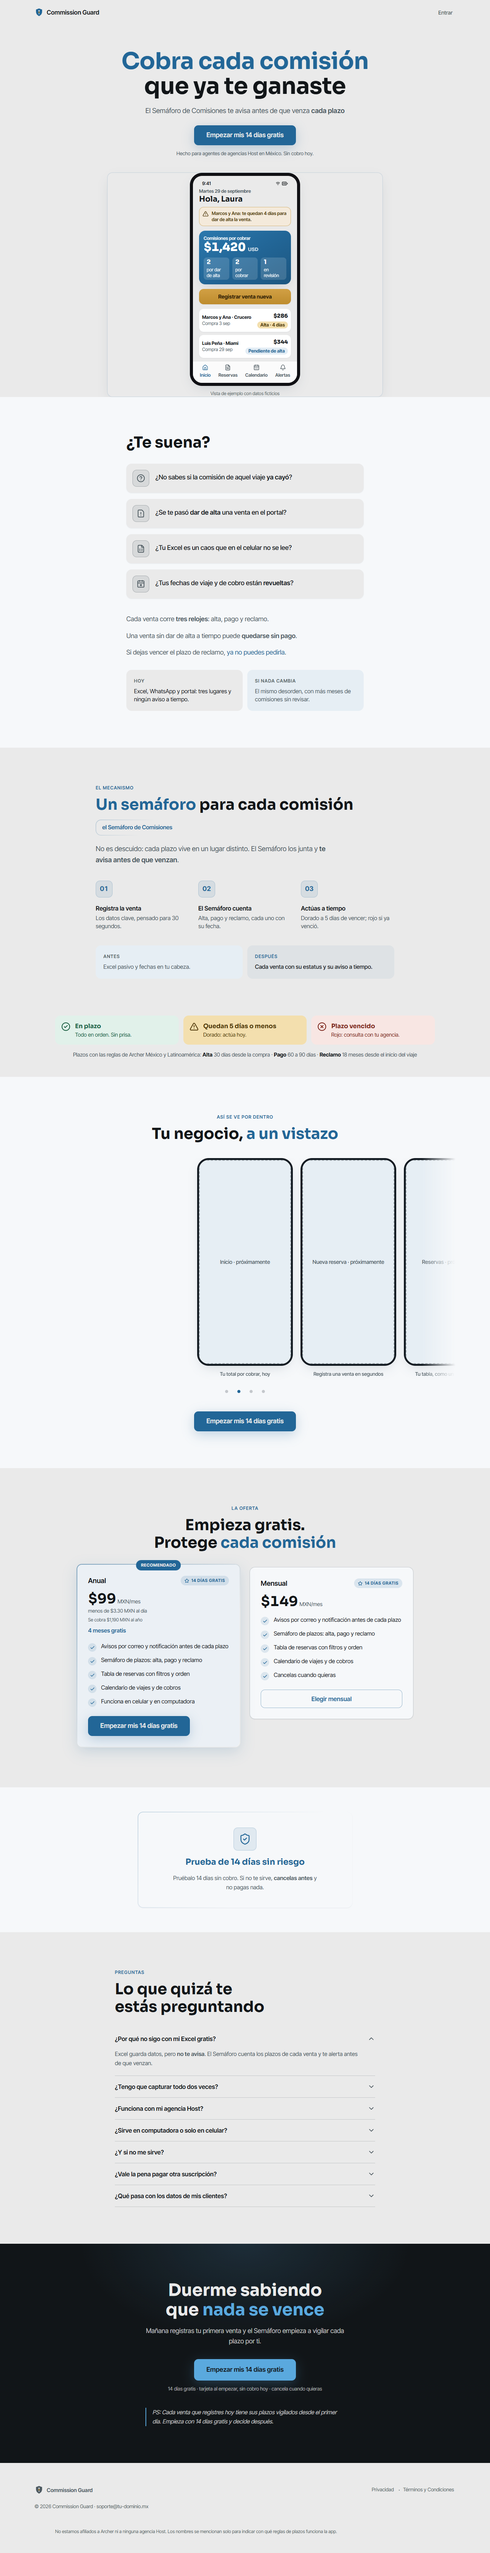
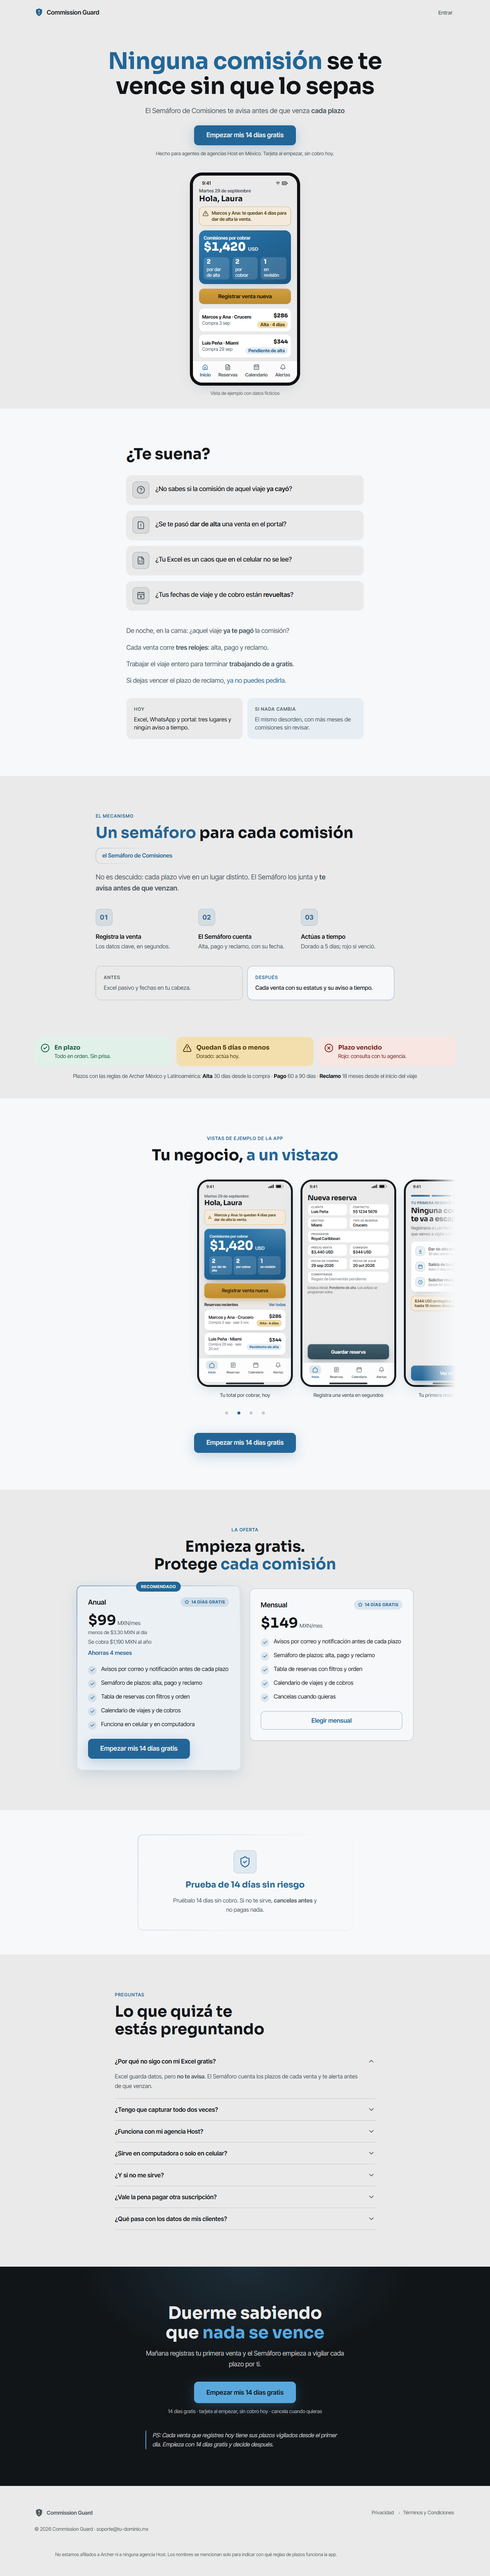
fix: segunda ronda de defectos de la landing (h1, agitacion, semaforo animado, vistas de ejemplo)

diff --git a/app/page.tsx b/app/page.tsx
@@ -30,11 +30,11 @@ export default function Landing() {
         appName={BRAND}
         logo={<Logo />}
         loginHref="/entrar"
-        h1Marked="[acento]Cobra cada comisión[/acento] que ya te ganaste"
+        h1Marked="[acento]Ninguna comisión[/acento] se te vence sin que lo sepas"
         subtitleMarked="El Semáforo de Comisiones te avisa antes de que venza [b]cada plazo[/b]"
         ctaLabel={CTA_LABEL}
         ctaHref={CTA_HREF}
-        socialProof={<span className="text-balance">Hecho para agentes de agencias Host en México. Sin cobro hoy.</span>}
+        socialProof={<span className="text-balance">Hecho para agentes de agencias Host en México. Tarjeta al empezar, sin cobro hoy.</span>}
         visual={
           <div>
             <AppMockInicio />
@@ -55,8 +55,9 @@ export default function Landing() {
 
       <Agitacion
         frases={[
+          'De noche, en la cama: ¿aquel viaje [b]ya te pagó[/b] la comisión?',
           'Cada venta corre [b]tres relojes[/b]: alta, pago y reclamo.',
-          'Una venta sin dar de alta a tiempo puede [b]quedarse sin pago[/b].',
+          'Trabajar el viaje entero para terminar [b]trabajando de a gratis[/b].',
           'Si dejas vencer el plazo de reclamo, [acento]ya no puedes pedirla[/acento].',
         ]}
         contraste={{
@@ -72,9 +73,9 @@ export default function Landing() {
         mecanismo="el Semáforo de Comisiones"
         bigIdeaMarked="No es descuido: cada plazo vive en un lugar distinto. El Semáforo los junta y [b]te avisa antes de que venzan[/b]."
         pasos={[
-          { titulo: 'Registra la venta', detalle: 'Los datos clave, pensado para 30 segundos.' },
-          { titulo: 'El Semáforo cuenta', detalle: 'Alta, pago y reclamo, cada uno con su fecha.' },
-          { titulo: 'Actúas a tiempo', detalle: 'Dorado a 5 días de vencer; rojo si ya venció.' },
+          { titulo: 'Registra la venta', detalle: 'Los datos clave, en segundos.' },
+          { titulo: 'El Semáforo cuenta', detalle: 'Alta, pago y reclamo, con su fecha.' },
+          { titulo: 'Actúas a tiempo', detalle: 'Dorado a 5 días; rojo si venció.' },
         ]}
         antesDespues={{
           labelAntes: 'Antes',
@@ -87,12 +88,13 @@ export default function Landing() {
       <SemaforoVisual />
 
       <AppPorDentro
+        kicker="VISTAS DE EJEMPLO DE LA APP"
         tituloMarked="Tu negocio, [acento]a un vistazo[/acento]"
         frames={[
-          { label: 'Tu total por cobrar, hoy', nombrePantalla: 'Inicio · próximamente' },
-          { label: 'Registra una venta en segundos', nombrePantalla: 'Nueva reserva · próximamente' },
-          { label: 'Tu tabla, como un Excel que avisa', nombrePantalla: 'Reservas · próximamente' },
-          { label: 'Viajes y cobros en un calendario', nombrePantalla: 'Calendario · próximamente' },
+          { src: '/mock/inicio.png', alt: 'Vista de ejemplo: inicio con el total por cobrar', label: 'Tu total por cobrar, hoy' },
+          { src: '/mock/nueva-reserva.png', alt: 'Vista de ejemplo: formulario de nueva reserva', label: 'Registra una venta en segundos' },
+          { src: '/mock/resultado.png', alt: 'Vista de ejemplo: plazos programados de una reserva', label: 'Tu primera reserva, ya vigilada' },
+          { src: '/mock/calendario.png', alt: 'Vista de ejemplo: calendario del mes', label: 'Viajes y cobros en un calendario' },
         ]}
         ctaLabel={CTA_LABEL}
         ctaHref={CTA_HREF}
@@ -107,7 +109,7 @@ export default function Landing() {
           precioMes: '$99',
           sufijo: 'MXN/mes',
           totalAnual: 'Se cobra $1,190 MXN al año',
-          ahorro: '4 meses gratis',
+          ahorro: 'Ahorras 4 meses',
           descomposicionDia: 'menos de $3.30 MXN al día',
           ctaLabel: 'Empezar mis 14 días gratis',
           ctaHref: '/onboarding?plan=anual',

diff --git a/components/SemaforoVisual.tsx b/components/SemaforoVisual.tsx
@@ -1,3 +1,6 @@
+'use client';
+
+import { motion, useReducedMotion } from 'motion/react';
 import { CircleCheck, TriangleAlert, CircleX } from 'lucide-react';
 
 // Muestra el mecanismo (Semáforo de Comisiones) con sus tres estados y los plazos verificados de Archer MX/LatAm.
@@ -13,18 +16,26 @@ const PLAZOS = [
 ];
 
 export function SemaforoVisual() {
+  const reducir = useReducedMotion();
   return (
     <section aria-label="Cómo funciona el semáforo" className="bg-[var(--bg)] pb-12">
-      <div className="mx-auto w-full max-w-5xl px-4">
+      <div className="mx-auto w-full max-w-[1140px] px-5">
         <div className="grid gap-3 md:grid-cols-3">
-          {ESTADOS.map(({ Icon, titulo, detalle, clase }) => (
-            <div key={titulo} className={`flex items-start gap-3 rounded-[var(--radius-card)] p-4 ${clase}`}>
+          {ESTADOS.map(({ Icon, titulo, detalle, clase }, i) => (
+            <motion.div
+              key={titulo}
+              initial={reducir ? false : { opacity: 0, y: 12 }}
+              whileInView={{ opacity: 1, y: 0 }}
+              viewport={{ once: true, amount: 0.4 }}
+              transition={{ duration: 0.4, delay: i * 0.12 }}
+              className={`flex items-start gap-3 rounded-[var(--radius-card)] p-4 ${clase}`}
+            >
               <Icon size={24} aria-hidden="true" className="mt-px shrink-0" />
               <div>
                 <p className="font-bold [font-family:var(--font-display)]">{titulo}</p>
                 <p className="text-sm">{detalle}</p>
               </div>
-            </div>
+            </motion.div>
           ))}
         </div>
         <p className="mt-4 text-center text-sm text-[var(--text-secondary)]">

diff --git a/components/landing/Solucion.tsx b/components/landing/Solucion.tsx
@@ -102,14 +102,14 @@ export function Solucion({
 
         {antesDespues && (
           <motion.div variants={item} className="mt-10 grid grid-cols-1 gap-3 sm:grid-cols-2">
-            <div className="rounded-[var(--radius-card)] bg-[var(--surface-2)] p-5">
+            <div className="rounded-[var(--radius-card)] border border-dashed border-[color-mix(in_oklab,var(--text-tertiary)_50%,transparent)] p-5">
               <p className="text-[12px] font-semibold uppercase tracking-[0.08em] text-[var(--text-tertiary)]">
                 {antesDespues.labelAntes}
               </p>
               <p className="mt-2 text-[15px] leading-snug text-[var(--text-secondary)]">{antesDespues.antes}</p>
             </div>
             {/* El "después" con acento sutil de fondo (4-6%) */}
-            <div className="rounded-[var(--radius-card)] bg-[color-mix(in_oklab,var(--accent)_6%,transparent)] p-5">
+            <div className="rounded-[var(--radius-card)] border border-[color-mix(in_oklab,var(--accent)_40%,transparent)] bg-[var(--surface)] p-5 shadow-[var(--shadow-1)]">
               <p className="text-[12px] font-semibold uppercase tracking-[0.08em] text-[var(--accent)]">
                 {antesDespues.labelDespues}
               </p>

diff --git a/components/landing/Hero.tsx b/components/landing/Hero.tsx
@@ -109,9 +109,7 @@ export function Hero({
           {/* Visual del producto: asoma en el primer viewport e invita al scroll */}
           <div className="mt-10 w-full max-w-[720px]">
             {visual ? (
-              <div className="overflow-hidden rounded-[var(--radius-card)] border border-[color-mix(in_oklab,var(--accent)_18%,transparent)] shadow-[var(--shadow-2)]">
-                {visual}
-              </div>
+              <div className="flex flex-col items-center pb-8">{visual}</div>
             ) : (
               /* Placeholder HONESTO (55 §1.3): dashed + ratio fijo (CLS 0) + sugerencia.
                  Queda anotado como pendiente en ESTADO.md hasta montar el visual real. */

diff --git a/components/landing/Oferta.tsx b/components/landing/Oferta.tsx
@@ -160,7 +160,7 @@ export function Oferta({
                 <div className="mt-4">
                   <Precio plan={anual} />
                   {/* El total anual SIEMPRE visible — regla de oro de 02C */}
-                  <p className="mt-1 text-[12px] text-[var(--text-secondary)]">{anual.totalAnual}</p>
+                  <p className="mt-1 text-[14px] text-[var(--text-secondary)]">{anual.totalAnual}</p>
                   <p className="mt-2 text-[15px] font-semibold text-[var(--accent)]">{anual.ahorro}</p>
                 </div>
                 <Features items={anual.features} origen="Oferta → anual" />

diff --git a/app/layout.tsx b/app/layout.tsx
@@ -6,7 +6,7 @@ const sora = Sora({ subsets: ['latin'], variable: '--font-sora', weight: ['500',
 const interTight = Inter_Tight({ subsets: ['latin'], variable: '--font-inter-tight', weight: ['400', '500', '600', '700'], display: 'swap' });
 
 export const metadata: Metadata = {
-  title: 'Commission Guard — Cobra cada comisión que ya te ganaste',
+  title: 'Commission Guard — Ninguna comisión se te vence sin que lo sepas',
   description:
     'Para agentes de viajes de agencias Host: el Semáforo de Comisiones te avisa antes de que venza cada plazo de alta, pago y reclamo. Prueba 14 días gratis.',
 };

diff --git a/docs/revisiones/landing-veredicto.md b/docs/revisiones/landing-veredicto.md
@@ -1,27 +1,25 @@
-# VEREDICTO revisor-visual — Landing de venta (Commission Guard)
-Fecha: 2026-09-29 21:59
+# VEREDICTO revisor-visual — Landing de venta (Commission Guard) — 2ª revisión
+Fecha: 2026-09-29 22:30
 Screenshot: docs/revisiones/landing-375.png
-Usabilidad: 28/40
+Usabilidad: 31/40
 Craft: 14/20
-Copy (si vende): 14/20
+Copy (si vende): 16/20
 Fidelidad (si hubo referencia): FIEL
 Veredicto: NO LISTA
 Top defectos:
-1. [CRITICO, CTA final, bloque oscuro] El acento #226697 sobre el fondo casi negro (~#131F28) mide ~2.7:1. El boton "Empezar mis 14 dias gratis" pierde borde contra su fondo (falla el ancla de CTA vivo >=3:1), el texto "nada se vence" no llega a 3:1 (titular grande) y la barra del PS tampoco. Es el CTA de cierre. FIX: en CtaFinal.tsx usar boton --bg con texto oscuro, o un azul aclarado para este bloque (p. ej. #4A9BD1, >=4.5:1) en el H2 acentuado y en la barra del PS.
-2. [COPY eje 2/4, secciones Solucion, Oferta y Agitacion] El mecanismo "Semaforo" solo existe como texto: no se ve el semaforo (verde/dorado/rojo, y el verde ni se menciona). No se dice COMO llega el aviso (push, WhatsApp, correo), y esa es la promesa central. Los plazos verificados (30 dias alta, 60-90 pago, 18 meses reclamo) no aparecen, asi que "tres relojes" y "antes de que venzan" quedan sin numero. La lista de features de Oferta no incluye los avisos. FIX: agregar una tira visual de 3 estados (verde/dorado/rojo) con los plazos reales en Solucion, decir el canal del aviso y anadir "Avisos antes de cada plazo" como primer item de features.
-3. [USABILIDAD h5/h7, app/page.tsx L102 y L116, Oferta] "Elegir mensual" y el CTA anual apuntan al mismo /onboarding sin parametro: la eleccion de plan se pierde. Tampoco hay "Entrar" para quien ya tiene cuenta (Hero admite loginHref y no se pasa). FIX: ctaHref '/onboarding?plan=anual' y '/onboarding?plan=mensual', y pasar loginHref al Hero.
-4. [COPY eje 4/2, Oferta y FAQ] Falta anclaje de valor y la objecion #5 de la ficha ("no gano para otro software"): el ahorro anual no se cuantifica ($149x12 vs $1,190) y nada compara el precio con una comision rescatada. No se aclara si la prueba de 14 dias pide tarjeta ("cancelas antes" lo insinua). La Garantia esta bien como Prueba de 14 dias, pero su titular sale como "la Prueba de 14 Dias" con "la" en minuscula y parece un bug. FIX: linea "Ahorras $598 al ano vs mensual", FAQ "Cuanto cuesta vs lo que puedo perder", frase explicita sobre tarjeta, y capitalizar el titular ("La Prueba de 14 Dias").
-5. [FOOTER + Hero, encaje y confianza] El email visible es soporte@tu-dominio.mx (placeholder); el logo del header es un cuadrado azul vacio y el del footer es gris (inconsistente); el mock del hero (Laura, $1,420 USD, precios en MXN) no lleva rotulo visible de "Vista de ejemplo", solo aria-label; el subtitulo de prueba social queda con "hoy" huerfano en una linea. FIX: correo real o quitarlo hasta tenerlo, mismo logo/tratamiento en ambos, rotulo "Vista de ejemplo, datos ficticios" bajo el mock, y acortar la linea de prueba social a una sola linea.
+1. [Hero, bajo el teléfono de ejemplo] La leyenda "Vista de ejemplo con datos ficticios" queda pegada al borde inferior del marco, y ese marco termina justo donde empieza la sección siguiente (sin aire). Además hay un marco doble (caja exterior + bisel del teléfono) que no aporta. FIX: quitar el marco exterior (o darle pb-4 y mb-10) y separar la leyenda del corte de sección.
+2. [Oferta, card Anual + hero + CTA final] Dos "gratis" compiten en la misma card (badge "14 DÍAS GRATIS" y "4 meses gratis") y el total realmente cobrado ("Se cobra $1,190 MXN al año") va en 12px, casi ilegible. Que se pide tarjeta al empezar solo se dice en la FAQ 5 (cerrada por defecto) y en el recap final; el hero dice "Sin cobro hoy" sin aclararlo. FIX: badge = "14 días de prueba"; ahorro = "Ahorras 4 meses vs. mensual"; total anual a 14px; y una línea "Pedimos tarjeta al empezar · no se cobra hoy · cancelas antes" bajo el CTA del hero y bajo los planes.
+3. [Agitación, bajo "¿Te suena?"] Son 3 frases informativas y tranquilas ("tres relojes", "puede quedarse sin pago"): no hay la escena exacta del avatar (noche, cama, celular, "¿ya cayó aquel crucero?") ni el vocabulario literal que la FICHA-AVATAR exige ("trabajar de a gratis", "cochinero", angustia). La emoción solo aparece al final ("Duerme sabiendo..."), demasiado tarde. FIX: reescribir las frases 1 y 2 con la escena nocturna y "trabajaste de a gratis" (trazado a dolor 3 y VoC), sin cifras inventadas; y ajustar el H1 "Cobra cada comisión" (la app avisa plazos, no cobra: prometer "que no se te escape ninguna comisión" o similar).
+4. [Semáforo (3 cards) y Antes/Después] SemaforoVisual usa px-4 y el resto de la página px-5: las 3 cards quedan 4px más anchas que todos los bloques (x=16 vs x=20). En "Antes/Después", el "Después" (acento 6% sobre #eaeaea) se ve gris y apagado, y el "Antes" (#e6eef4) se ve más azul y vivo: parece invertido. El semáforo tampoco tiene ningún movimiento. FIX: px-5 en SemaforoVisual; "Después" sobre --surface con hairline de acento y "Antes" hundido; encender las 3 luces con stagger al entrar en vista (respetando reduced-motion).
+5. [Carrusel "Así se ve por dentro" + pasos de Solución] Cuatro marcos de teléfono vacíos con borde punteado ocupan una pantalla completa en móvil sin mostrar nada (la prueba visual queda a cero y parecen pantallas muertas), aunque estén rotulados "próximamente". Los 3 pasos del mecanismo hacen 2 líneas cada uno (el presupuesto pide 1) y "pensado para 30 segundos" suena forzado. FIX: mientras no haya app, mostrar 1-2 mocks HTML reales reutilizando AppMockInicio (Nueva reserva, Calendario) en lugar de frames vacíos, y recortar los detalles a <=6 palabras ("Datos clave, en 30 segundos").
 
-Otros defectos menores (no bloquean solos):
-- [Agitacion + Solucion] Dos pares de tarjetas que repiten el mismo recurso de contraste (Hoy / Si nada cambia y luego Antes / Despues): redundancia que alarga la pagina y baja h8. Fusionar en una.
-- [Profundidad] Fondo #EAEAEA vs superficie #F6F8FA: la alternancia entre secciones casi no se nota (sobre todo hero a Problema). El dorado #BE8C2D y el pizarra #304A57 de la referencia no aparecen en la pagina fuera del mock (identidad del kit generica salvo el mock). Subir el contraste de superficies y usar el dorado en un detalle firma de la landing (p. ej. cinta o acento de "Dorado a 5 dias").
-- [Movimiento] El visual del hero solo hace fade: el "$1,420" no cuenta, la tarjeta no se dibuja. Reveal y stagger, tap y reduced-motion sí estan en el kit.
-- [Fidelidad a la ficha, desvios leves] --surface #F6F8FA (ficha #FFFFFF) y texto secundario #46535A (ficha #5B666D); radios del mock (12/16/8px) fuera de 14/11. La referencia del usuario resulta FIEL (0 de 6 fallos).
-- [Contexto intencional, no penalizado como defecto de fondo] Carrusel con placeholders honestos, sin promesa de reembolso, precios y nombre provisionales. Aun así, el carrusel ocupa ~1000px de marcos vacios con solo el nombre de la pantalla; un rotulo "Proximamente: capturas reales" evitaria que se lea como imagen rota.
-
-Detalle de puntajes:
-- Usabilidad: h1:3 h2:3 h3:3 h4:3 h5:2 h6:3 h7:3 h8:2 h9:3 h10:3 (h3, h5 y h7 verificadas en codigo; el resto en render). Gate de carga cognitiva: 1 falla leve (elementos que parecen interactivos y no lo son: chip "el Semaforo de Comisiones", pildoras "14 dias gratis", tab bar del mock), sin sobrecarga critica.
-- Craft: jerarquia:3 profundidad:3 identidad:3 movimiento:3 encaje:2. Anclas de conversion: titular con enfasis PASA; hairline degrade (annual, garantia, chip mecanismo) y chips SVG sin emojis PASA; secciones adyacentes distinguibles: PASA en el limite (contraste debil).
-- Copy: idea:3 especificidad:2 emocion:3 oferta:3 accion:3. Sub-checks: message-match N/A (sin anuncio de origen); garantia nombrada cerca del CTA PASA (Prueba de 14 Dias, justo bajo las tarjetas, y badge de 14 dias en ambas); enfasis PASA. Presupuesto de copy (subtitulo <=14 palabras, cards de problema <=12, FAQ <=40): PASA. Eje 2 <=2 obliga a corregir aunque el total pasara.
-- Gate doble: Usabilidad 28 (<36) y Craft 14 (<16); Copy 14 (<16) con un eje <=2. NO LISTA.
+Detalle (fuente):
+- Usabilidad 31/40: h1:3 h2:4 h3:3 h4:3 h5:3 h6:3 h7:3 h8:3 h9:3 h10:3. h3 y h7 verificadas en código (StickyCtaMobile con 2 estados, ?plan= en los CTAs, enlaces /entrar /privacidad /terminos /onboarding existen, FAQ cerrable, dots tocables, scroll suave con reduced-motion). h9 sin superficies de error en una landing (no hay forms). Gate de carga cognitiva: falla 2 de 8 (FAQ de 7 ítems > 5; frames vacíos que parecen interactivos) → no es sobrecarga crítica.
+- Craft 14/20: jerarquía 3 (H1 40px bold con 3 palabras en acento; más de 3 tamaños, alineación de títulos mezclada centro/izquierda) · profundidad 3 (alternancia base/elevada, sombras tintadas; el mesh del hero es casi invisible; Solución y Semáforo comparten plano) · identidad 3 (paleta azul/dorado del usuario, Sora + Inter Tight, hairline degradé x3, chips SVG sin emojis, tarjeta héroe azul + botón dorado dentro del mock y semáforo de 3 estados como dispositivo propio; fuera del mock la página es el kit genérico y el dorado casi no aparece) · movimiento 3 (stagger whileInView, whileTap 0.97, acordeón animado, sticky con slide, reduced-motion respetado; faltan conteo del número héroe $1,420 y animación del semáforo; hero solo con fade) · encaje 2 (defectos 1 y 4; títulos de 3 líneas "Empieza / gratis. Protege / cada comisión").
+- Copy 16/20 (idea 3 · especificidad 3 · emoción 3 · oferta 3 · acción 4). Umbral 16 justo, sin eje <=2. Idea: Semáforo bautizado en hero, solución, oferta y CTA final; el H1 promete "cobrar" pero el mecanismo es avisar plazos. Especificidad: 30 días / 60-90 / 18 meses / $99 / $1,190 / $3.30 al día / Archer, demo de ejemplo etiquetado; sin testimonios (honesto, día 1); el costo de la inacción no tiene ningún número. Oferta: stack, $/mes + total + por día + ancla mensual, "Prueba de 14 días sin riesgo" nombrada con plazo (sub-check garantía nombrada: PASA); falta ancla externa (el CRM de $40 USD/mes de la ficha) y la tarjeta al empezar está escondida. Acción: un solo tipo de acción, "Empezar mis 14 días gratis" en 1ª persona x5 (+ sticky); "Elegir mensual" rompe la fórmula pero es secundario. Presupuesto de copy: H1 6 palabras, subtítulo 12, cards de problema <=11, H2 final 6, FAQ 20-24 (aceptable); solo los pasos exceden "1 línea". Message-match: N/A (sin creativo de origen).
+- CTA héroe vivo: PASA los 4 (contraste 5.11:1 medido, whileTap + hover, nunca disabled, 52px ancho completo). Texto terciario 5.81:1, acento sobre fondos 5.1-5.8:1 (AA). CTA del bloque oscuro 7.14:1.
+- Anclas de conversión: titular con énfasis PASA; hairline degradé (3) y chips SVG PASA; secciones adyacentes distinguibles PASA salvo Solución+Semáforo (mismo plano, intencional).
+- FICHA-ARTE: acento #226697, dorado #BE8C2D, Sora/Inter Tight, radios 14/11 coinciden. Desvíos menores: superficie #f6f8fa (ficha #FFFFFF; las cards del mock sí son blancas), y la 2ª nota #304A57 de la referencia no aparece en ningún sitio.
+- Fidelidad: FIEL. Modo claro, fondo #EAEAEA, botones #226697 y highlights dorados coinciden con la paleta del usuario. Las otras 4 comprobaciones (clase tipográfica, radios, densidad, sombras) no son derivables de un tablero de paleta (0 de 6 fallos evaluables).
+- Contexto intencional respetado y NO penalizado como defecto de fondo: placeholders "próximamente", sin garantía de reembolso, precios/nombre/correo provisionales (soporte@tu-dominio.mx). Solo se penaliza el efecto visual de los frames vacíos (defecto 5) y que el correo provisional es visible en el footer hasta que el usuario lo defina.
+- Por qué NO LISTA: Usabilidad 31/40 < 36 y Craft 14/20 < 16 (doble gate). Copy pasa por 0 puntos de margen.

diff --git a/ESTADO.md b/ESTADO.md
@@ -75,3 +75,5 @@ Asistente móvil ligero para agentes de viajes independientes afiliados a agenci
 - Decisiones: sin garantía de reembolso hasta verificar Hotmart (solo "Prueba de 14 días"); sin stack de valor tachado (sin precios falsos); carrusel con placeholders honestos hasta tener la app; hero con mock realista (AppMockInicio) rotulado como ejemplo.
 - Pendientes de la landing: nombre final de marca (provisional "Commission Guard") · email de soporte real (hoy soporte@tu-dominio.mx) · precios MXN a confirmar en Hotmart · screenshots reales al cerrar la app · textos legales reales (privacidad/términos) · analítica (landing_vista, atribución, ?qa=1) · verificar claim "Archer México y Latinoamérica" y los 3 plazos con el usuario · veredicto del revisor: docs/revisiones/landing-veredicto.md
 - Screenshots: docs/revisiones/landing-375.png y landing-1280.png
+- Desviaciones menores del kit (justificadas por el revisor 2026-09-29): Hero sin marco doble alrededor del visual · Solucion antes/después con tratamiento invertido · Oferta total anual a 14px · CtaFinal con --accent-on-dark y --on-accent · SemaforoVisual añadido entre Solución y La app por dentro (el kit no muestra el mecanismo visualmente) · carrusel con vistas de ejemplo (public/mock/*.png, mockups de diseño rotulados como ejemplo).
+- H1 cambiado (revisor): "Ninguna comisión se te vence sin que lo sepas" (la app avisa plazos, no cobra por el agente).
